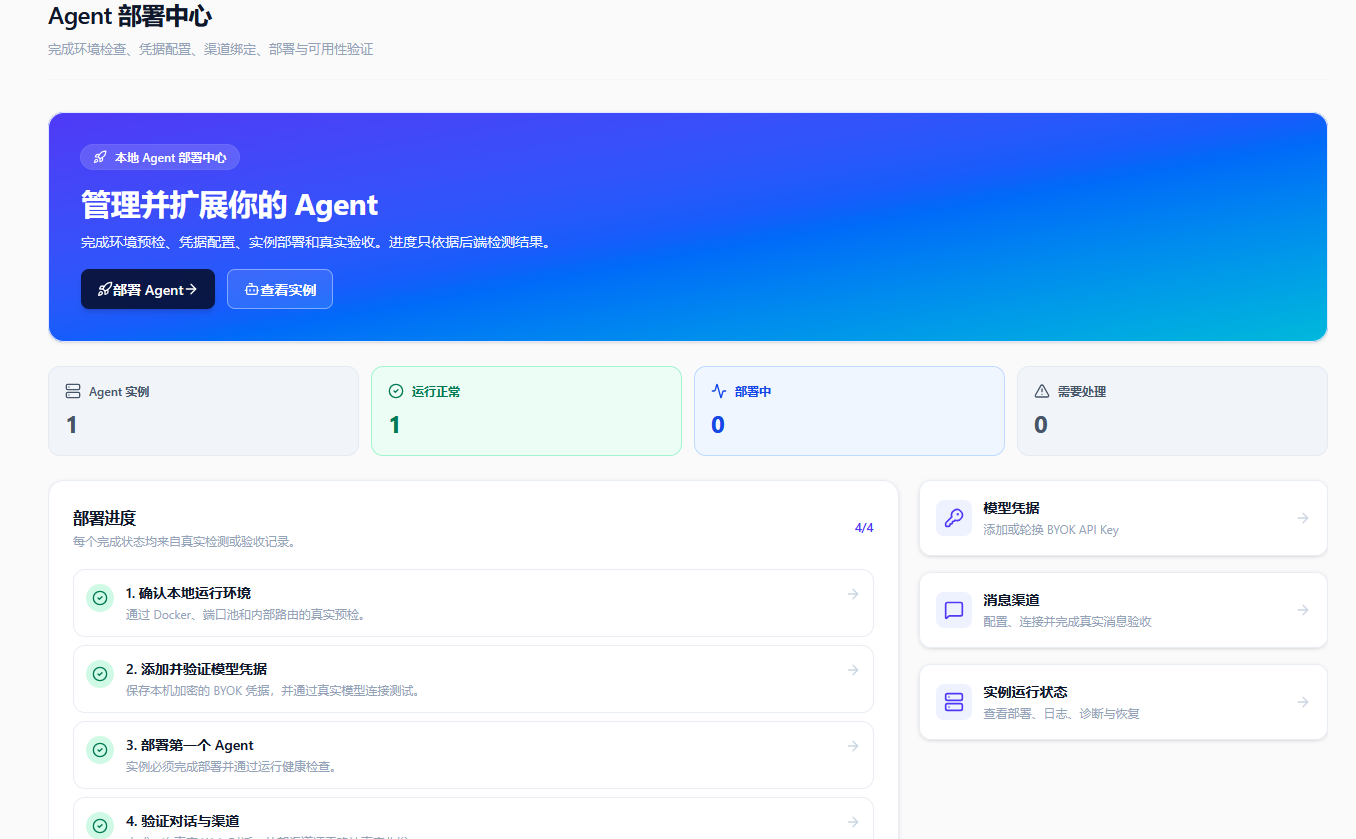
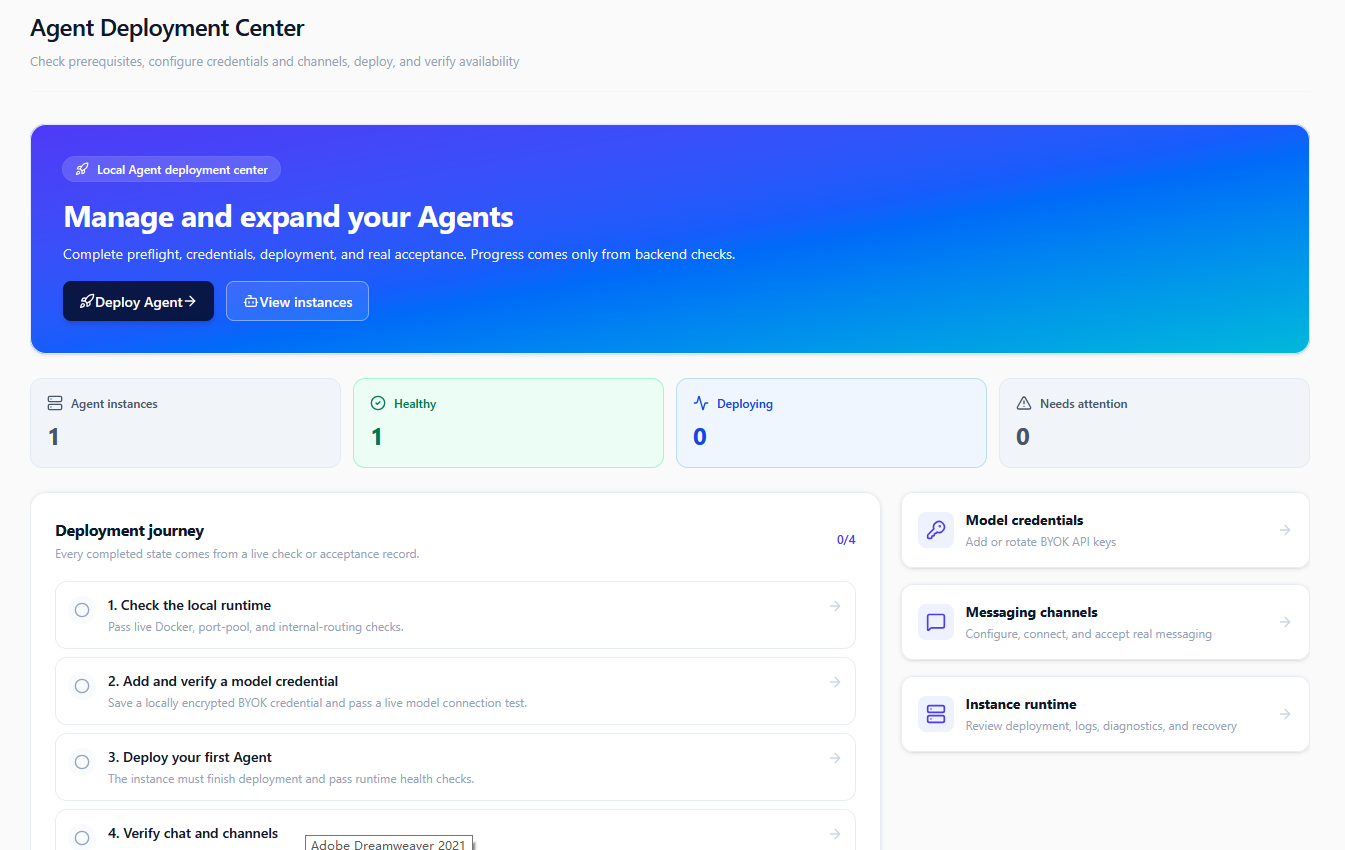
docs: refresh bilingual product screenshots

diff --git a/README.zh-CN.md b/README.zh-CN.md
@@ -1,5 +1,7 @@
 # 麦贝开源版（MyBay Open Source）
 
+![麦贝开源版概览](./docs/images/main-zh.jpg)
+
 [![CI](https://github.com/mybay-ai/mybay-core/actions/workflows/ci.yml/badge.svg)](https://github.com/mybay-ai/mybay-core/actions/workflows/ci.yml)
 [![Security](https://github.com/mybay-ai/mybay-core/actions/workflows/security.yml/badge.svg)](https://github.com/mybay-ai/mybay-core/actions/workflows/security.yml)
 [![License: AGPL-3.0-only](https://img.shields.io/badge/license-AGPL--3.0--only-blue.svg)](./LICENSE)
@@ -22,19 +24,19 @@ MyBay Open Source 是可自行部署的社区开源版本；[mybay.ai](https://m
 
 通过 Quick Start 或手动 Docker 部署，在自己的基础设施上运行和管理 AI Agent。
 
-![麦贝开源版首页与部署方式](./docs/images/mybay-home.png)
+![麦贝开源版首页与部署方式](./docs/images/mybay-home-zh.png)
 
 ### Agent 部署与实例管理
 
 在本地控制台中完成环境预检、模型凭据配置、Agent 部署、消息渠道连接和运行状态诊断。
 
-![Agent 部署中心](./docs/images/agent-deployment-center.png)
+![Agent 部署中心](./docs/images/agent-deployment-center-zh.png)
 
 ### 实例对话与文件工作区
 
 在同一界面中与 Agent 对话，并查看执行进度、生成文件、文件变更摘要和支持的文件预览。
 
-![实例对话与文件工作区](./docs/images/chat-file-workspace.png)
+![实例对话与文件工作区](./docs/images/chat-file-workspace-zh.png)
 
 ## 与 Hermes Agent 的项目关系
 

diff --git a/README.md b/README.md
@@ -1,5 +1,7 @@
 # MyBay Open Source Control Plane
 
+![MyBay Open Source overview](./docs/images/main.png)
+
 [![CI](https://github.com/mybay-ai/mybay-core/actions/workflows/ci.yml/badge.svg)](https://github.com/mybay-ai/mybay-core/actions/workflows/ci.yml)
 [![Security](https://github.com/mybay-ai/mybay-core/actions/workflows/security.yml/badge.svg)](https://github.com/mybay-ai/mybay-core/actions/workflows/security.yml)
 [![License: AGPL-3.0-only](https://img.shields.io/badge/license-AGPL--3.0--only-blue.svg)](./LICENSE)
